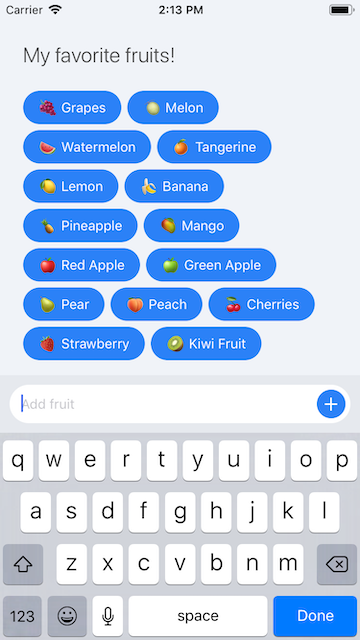
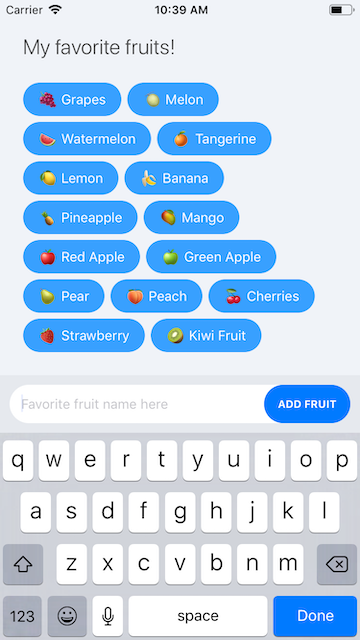
UI changes

diff --git a/TagsCollectionView/View/TagInputView.swift b/TagsCollectionView/View/TagInputView.swift
@@ -36,7 +36,7 @@ class TagInputView: XibView {
     }
     
     private func setup() {
-        addButton.layer.cornerRadius = 15
+        addButton.layer.cornerRadius = 20
         inputField.delegate = self
     }
 }
